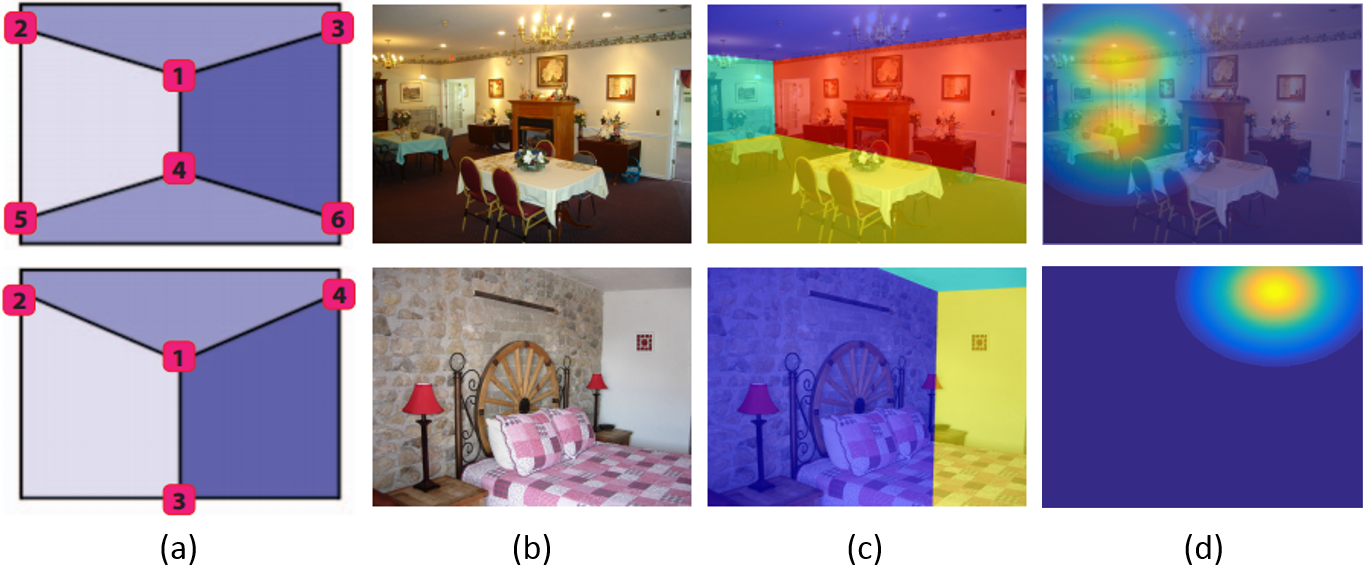
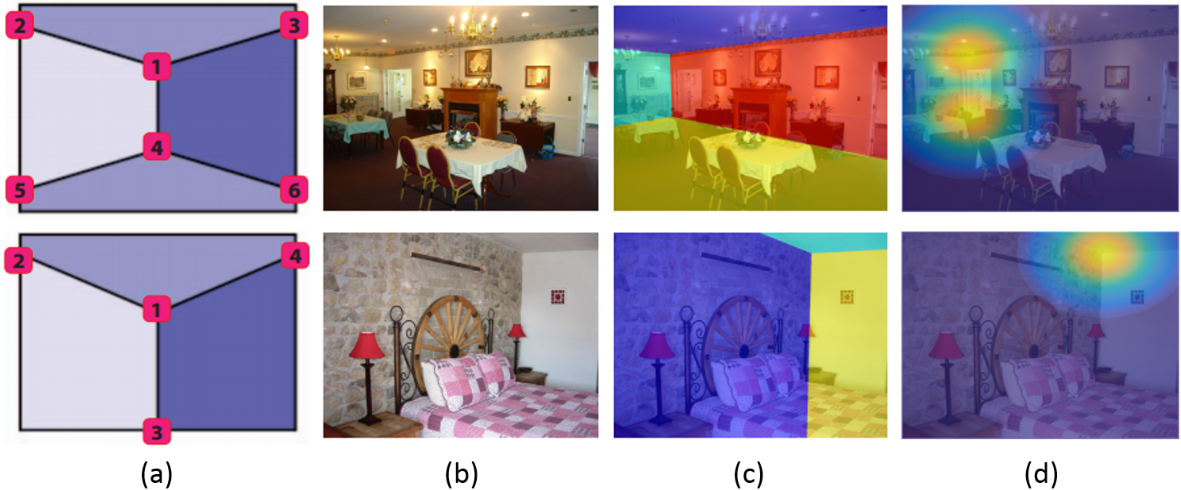
Final

diff --git a/paper_sub/approach.tex b/paper_sub/approach.tex
@@ -13,7 +13,7 @@ These representations have proved valid and reasonable.
 However, they all carry too much redundant predictions that make the combination inconvenient under the circumstances of multi-view layout estimation. Taking the keypoints representation in \cite{LeeRoomNet17} as an example, they need to predict all 6 points in Fig. \ref{fig:representation}(a) first row. But the 4 points on the image boundaries help little when combine different views, because they are not real corners. 
 Moreover, in order to determine how many corners to select in the final layout, a classification branch is required to determine the layout topology. 
 Out of this reason, we propose a more concise representation of a room layout using the corners only, as shown in Fig. \ref{fig:representation}(d). 
-This representation avoids extra efforts on classifying the room layout topology, and can be easily used to integrating multiple views.
+This representation avoids extra efforts on classifying the room layout topology, and can be easily used to integrate multiple views.
 %
 
 
@@ -24,7 +24,7 @@ This representation avoids extra efforts on classifying the room layout topology
 Given multiple overlapping images of an indoor scene from different views, our approach produces the combined room layout in corner-based representation. The pipeline is depicted in Fig. \ref{fig:overview}. 
 %
 First, we estimate the partial room layout separately in each single image using an encoder-decoder structure, as described in Sec. \ref{sec:layout}. 
-Then the estimated partial room layouts are integrated into a combined probability map, based on the geometric transformations between images. 
+Then the estimated partial room layouts are integrated into a combined heatmap, based on the geometric transformations between images. 
 We use a linear blending to average the predictions from different views, and select the points of the maximum responses as the room corners, as described in Sec. \ref{sec:merging}. 
 
  
@@ -62,7 +62,7 @@ Obviously, without the extra intersections of two semantic planes on the image b
  
 Under our corner-based layout representation, we predict the corner positions for each view separately using a neural network. 
 Considering the inherent semantic differences, we divide the room corners into two categories: the upper corners which are the intersection of two walls and ceiling, and the lower corners which are the intersection of two walls and floor. 
-In consequence, the goal of our single-view network should be estimating the probability maps of these two types of room corners for the input image.
+In consequence, the goal of our single-view network should be estimating the heatmaps of these two types of room corners for the input image.
 
 \noindent\textbf{Network Architecture.}
 We adopt the encoder-decoder architecture proposed by \cite{LeeRoomNet17} with modifications, since it is an end-to-end framework without complex post-processing. 
@@ -70,10 +70,10 @@ We adopt the encoder-decoder architecture proposed by \cite{LeeRoomNet17} with m
 Our layout estimation network for a single-view image is shown in Fig.~\ref{fig:network}. 
 %It is designed to estimate the room corners in a single-view image. 
 %Our network for room corner estimation from a single-view image is shown in Fig.~\ref{fig:network}.
-We mainly make two modifications on the decode part and classification branch. 
+We mainly make two modifications on the decoder part and classification branch. 
 First, as our corner-based representation is more concise, we remove the recurrent structure in \cite{LeeRoomNet17} for efficiency, and we add more upsampling layers and convolution layers to upsample the feature maps from the bottleneck layer to get the same resolution with the input image as a compensation for accuracy. 
 The final convolution layer is adapted to output a $w \times h \times 2$ probability array $T$ for our new representation, where $w$ and $h$ stand for the width and length of the input image. 
-Each of the two slices can be viewed as a probability map for the upper corners and lower corners respectively. 
+Each of the two slices can be viewed as a heatmap for the upper corners and lower corners respectively. 
 Secondly, \cite{LeeRoomNet17} delineates room layout using 2D keypoints. The semantic boundaries can be recovered by connecting the detected 2D keypoints in a specific order. 
 As the connection order differs between room topologies, they have to add a classification branch in their network to classify the room type, and the final performance rely on the classification accuracy. 
 Unfortunately, the accuracy is not satisfied. 
@@ -88,16 +88,16 @@ Therefore, we remove the classification branch in our network architecture.
 \end{figure}
 
 \noindent\textbf{Training.} 
-While our method could take multiple images under different view directions of arbitrary FOV, we generate our training dataset using the PanoContext dataset \cite{zhang2014panocontext} to generate multi-view images for training. 
-The PanoContext dataset contains 500 annotated panorama. We project these panorama into multiple $320 \times 320$ images at different views using the toolkit provided by \cite{zhang2014panocontext}. 
+While our method could take multiple images under different view directions of arbitrary FOV, we use the PanoContext dataset \cite{zhang2014panocontext} to generate multi-view images for training. 
+The PanoContext dataset contains 500 annotated panoramas. We project these panoramas horizontally into multiple $320 \times 320$ images with $FOV=\ang{90}$ at different views using the toolkit provided by \cite{zhang2014panocontext}. For each panorama we obtain 12 perspective images.
 %
 %\xj{The number of views in the training? how many training images? with overlapping? data augumentation?} \drf{we use different views for different settings (in the experiments), so i didn't mention it here.}
 
 The ground truth locations of the room corners are obtained using the same transformations and are further transformed into the Gausian representation. 
-While the output is a probability map, we produce the ground-truth map for each image by generating a 2D Gaussian centered at the location of each groundtruth corner with $\sigma=40$ pixels, similar with \cite{LeeRoomNet17,tompson2014joint}.
+While the output is a heatmap, we produce the ground-truth map for each image by generating a 2D Gaussian centered at the location of each groundtruth corner with $\sigma=40$ pixels, similar with \cite{LeeRoomNet17,tompson2014joint}.
 %
-Euclidean loss is used to regress the probability map of room corners. 
-Because the background area is much larger than the corner areas in the probability maps, we adjust the distribution imbalance between foreground and background pixels by degrading the gradient weight of background pixels with a coefficient of 0.2.
+Euclidean loss is used to regress the heatmap of room corners. 
+Because the background area is much larger than the corner areas in the heatmaps, we adjust the distribution imbalance between foreground and background pixels by degrading the gradient weight of background pixels with a coefficient of 0.2.
 %\xj{Training parameters?}
 Adam is adopted as the optimizer to train the model with batch size of 5, initial learning rate of 0.00001 and maximum iterations is set to 40000.
 
@@ -112,18 +112,18 @@ Adam is adopted as the optimizer to train the model with batch size of 5, initia
 
 \subsection{Layout Composition}
 \label{sec:merging}
-After we predict the probability maps of the room corners for each image, we composite them to generate a layout in a larger FOV. 
+After we predict the heatmaps of the room corners for each image, we composite them to generate a layout in a larger FOV. 
 First, we align the input images in different views by using the transformation between image plane and the composition image plane. 
 %First, the input multi-view images are projected into a combined image using the camera poses, we formulate this view transformations as a function $f$. 
-Then, we sum the two-channel probability map $T$ for each image to get a probability map $\hat{T}$ depicting all two types of room corners. 
-Next, we use the same mapping function $f$ to map the map $\hat{T}$ from multi-views into the composition image plane.
+Then, we sum the two-channel heatmap $T$ for each image to get a heatmap $\hat{T}$ depicting all two types of room corners. 
+Next, we use the same transformation to map the heatmaps $\hat{T}$ from multi-views into the composition image plane.
 %
 %\xj{Explain the different between two subfigures. }
-The combined probability map generated by simply averaging the maps of different views that contain many visual boundaries as the data distribution differs in different views. To smooth the combined probability map, a linear blending is applied to average the predictions of the overlapping area between different views. The weight for blending is depended on the distance to each overlapping images for each pixel.
+The combined heatmap generated by simply averaging the maps of different views contains many visual boundaries as the data distribution differs in different views. To smooth the combined heatmap, a linear blending is applied to average the predictions of the overlapping area between different views. The weight for blending is depended on the distance to each overlapping images for each pixel.
 
 %
-After that, we pick the points with the maximum responses as the room corners. 
-At this stage, we first reduce the noise in $\hat{T}$ caused by unsatisfactory predictions from particular perspectives by calculating the LOG response of $\hat{T}$ at a certain scale, $\sigma$ is set to 21 in our case, and use the LOG response as our new probability map.
+After that, we pick the points with the local maximum responses as the room corners. 
+At this stage, we first reduce the noise in $\hat{T}$ caused by unsatisfactory predictions from particular perspectives by calculating the LOG response of $\hat{T}$ at a certain scale, $\sigma$ is set to 21 in our case, and use the LOG response as our new heatmap.
 %
 Then, we follow the post-processing method in \cite{zou2018layoutnet} to obtain the locations of the room corners in the combined map. In brief, the combined heatmap is summed across rows to find $m$ local maxima for columns, then $n$ largest peaks are found along each of the $m$ columns. In this way, we attain the locations of $m \times n$ room corners. We further detect the vanishing points of the two perspective images on two sides of the combined image, and connect them seperately with the closet room corners in the combined layout to generate the semantic boundaries outside the $m \times n$ room corners. While for panorama, we reconstruct the whole-room layout by by directly connecting the eight keypoints.
 %

diff --git a/paper_sub/results.tex b/paper_sub/results.tex
@@ -3,24 +3,40 @@
 \section{Results}
 Our approach performs well on real data even facing occlusions and clutter in the indoor environment. A panoramic visual sample taken from the PanoContext testset is shown in Fig. \ref{fig:results2}.
 %
-The first row are the input multi-view images, the second row are the predicted probability maps from the network. We also estimate the room corners on the flipped version of the input images and average the probability maps. Then the predictions from different views are merged to obtain the overall probability map on the left of the third row, and the final result is on its right. 
+The first row are the input multi-view images, the second row are the predicted heatmaps from the network. We also estimate the room corners on the flipped version of the input images and average the heatmaps. Then the predictions from different views are merged to obtain the overall heatmap on the left of the third row, and the final result is on its right. 
 %
-In this scene, 12 images from different horizontal perspectives are used. Note that several room corners are occluded by objects, such as the corners behind the bed and the sofa, but we can still recover the overall layout of the room properly. As revealed by the probability maps, the uncertainty of the lower room corner in the second view has been compensated by the first view. Our method also shows robustness to complex texture, such as patterned carpet in this scene. 
+In this scene, 12 images from different horizontal perspectives are used. Note that several room corners are occluded by objects, such as the corners behind the bed and the sofa, but we can still recover the overall layout of the room properly. As revealed by the heatmaps, the uncertainty of the lower room corner in the second view has been compensated by the first view, depicted by red and gray circle. Our method also shows robustness to complex texture, such as patterned carpet in this scene. 
+
 %
-Fig. \ref{fig:partial2} shows a combined layout generated by 4 perspective images. Our method works well in this situation too. The SVNet correctly infer the layout in which no corner shows (the second image), and it is robust to clutters caused by many objects around the lower room corners.
+Fig. \ref{fig:partial2} shows two combined layouts generated from different numbers of views. The misleading prediction in the third view make the two-view layout produce two extra room corners on the left side. The unsatisfactory prediction in the fourth view also lead to a inferior performance on the right side. However, by taking more views into consideration, we can obtain a better predicition as depicted in the five-view result. The two extra corners are abandoned by integrating the first and the second view, and the inferior prediction on the right is also refined by merging the fifth view.
+%Our method works well in this situation too. The SVNet correctly infer the layout in which no corner shows (the second image), and it is robust to clutters caused by many objects around the lower room corners.
 
 
-\begin{figure}[ht]
+\begin{figure}
 	\centering
 	\includegraphics[width=\linewidth]{figs/results2.png}
-	\caption{Our qualitative results on real data. We sum over the third dimension of the probability array $T$ for visulization. In the final result, the ground truth is shown in green and our prediction is shown in red. }
+	\caption{Our qualitative results on real data. We use the heatmap $\hat{T}$ for visulization. In the final result, the ground truth is shown in green and our prediction is shown in red. }
 	\label{fig:results2}
 \end{figure}
+
+\begin{table}
+	\caption{Quantitative results on PanoContext dataset.}
+	\label{tab:PC}
+	\begin{tabular}{cccc}
+		\toprule
+		Method&3D IoU (\%)& $\epsilon_{corner}$ (\%) & $\epsilon_{pixel}$ (\%)\\
+		\midrule
+		PanoContext \cite{zhang2014panocontext} & 67.23 & 1.60 & 4.55\\
+		LayoutNet \cite{zou2018layoutnet} & 74.48 & 1.06 & 3.34\\	
+		Our method & 61.98 & 2.75 & 6.73\\	
+		\bottomrule
+	\end{tabular}
+\end{table}
 
 \begin{figure}
 	\centering
 	\includegraphics[width=\linewidth]{figs/partial2.png}
-	\caption{A combined layout generated from four images. The predicted room corners are depicted by red points in the final result.}
+	\caption{The combined layout generated from two or five images. The two-view result is obtained by using the third and fourth images in the first row, the five-view result is obtained by using all the images. We depict the inferior predictions using red circles.}
 	\label{fig:partial2}
 \end{figure}
 
@@ -30,12 +46,15 @@ We also conduct experiments on the PanoContext dataset for quantitative comparis
 %
 Three standard metrics are adopted for evaluation: 3D Intersection over Union, Corner error and Pixel error. As shown in Table \ref{tab:PC}, our approach is comparable with panorama-based methods. 
 %
+The deficiency maybe caused by the smaller FOV of the perspective image. In fact, the panorama can be viewed as a special case that the FOV reaches its maximum.
+
+\comments{
 We believe that the reason for the deficiency is that the FOV of each perspective image is much smaller than that of the panorama. Limited FOV may lead to the wrong focus, which then pollutes the overall prediction. 
 %
 To explore the effect of using different size of FOV, we use two settings during training and testing. For Multi-view-\ang{60}, we project the panorama into 24 perspective images with $FOV=\ang{60}$, while 8 directions around the vertical axis and 3 directions around the horizontal axis. For Multi-view-\ang{90}, we project the panorama into 12 perspective images with $FOV=\ang{90}$, all of them are horizontal and centered around the vertical axis. 
 %
 The quantitative results in Table \ref{tab:PC} demonstrate that larger FOV contribute to higher accuracy in overall prediction, which is consistent with our intuition. In fact, the panorama can be viewed as a special case that the FOV reaches its maximum.
-
+}
 
 %Experiments, three parts: one for different field of view (FOV), one for comparison with panorama based method, the last one for qualitative results.
 
@@ -54,23 +73,10 @@ The quantitative results in Table \ref{tab:PC} demonstrate that larger FOV contr
 %\end{table}
 
 
-\begin{table}
-	\caption{Quantitative results on PanoContext dataset.}
-	\label{tab:PC}
-	\begin{tabular}{cccc}
-		\toprule
-		Method&3D IoU (\%)& $\epsilon_{corner}$ (\%) & $\epsilon_{pixel}$ (\%)\\
-		\midrule
-		PanoContext \cite{zhang2014panocontext} & 67.23 & 1.60 & 4.55\\
-		LayoutNet \cite{zou2018layoutnet} & 74.48 & 1.06 & 3.34\\
-		Multi-view-\ang{60} & 53.39 & 3.35 & 10.15\\	
-		Multi-view-\ang{90} & 61.98 & 2.75 & 6.73\\	
-		\bottomrule
-	\end{tabular}
-\end{table}
+
 
 \section{Conclusions}
-In this paper, we propose a method to estimate the combined room layout based on multiple views. We design a concise representation for the room layout in the perspective image to simplify the learning process. Then we integrate the predicted room layout from different views into a combined prediction using view transformations and a fusion strategy. The multi-view images can supplement each other and generate more accurate predictions. We also achieve comparable performance with the panorama based methods on a panorama dataset. It is an encouraging attempt to estimate the room layout with larger FOV using multi-view images.
+In this paper, we propose a method to estimate the combined room layout based on multiple views. We design a concise representation for the room layout in the perspective image to simplify the learning process. Then we integrate the predicted room layout from different views into a combined prediction using view transformations and a fusion strategy. The multi-view images can supplement each other and generate more accurate predictions. We also achieve comparable performance with the panorama-based methods on a panorama dataset. It is an encouraging attempt to estimate the room layout with larger FOV using multi-view images.
 
 \comments{
 \begin{acks}

diff --git a/paper_sub/intro.tex b/paper_sub/intro.tex
@@ -3,7 +3,7 @@
 \begin{figure*}
 	\centering
 	\includegraphics[width=\linewidth]{figs/ppline.png}
-	\caption{Our pipeline consists of two main steps. First, a single-view network is employed to estimate the probability map of room corners for each image separately. Secondly, the probability maps of the input multi-view images are composed together to generate a combined probability map of the room corners according to the image transformations. The final result is obtained by selecting the corners of local maximum.
+	\caption{Our pipeline consists of two main steps. First, a single-view network is employed to estimate the heatmap of room corners for each image separately. Secondly, the heatmaps of the input multi-view images are composed together to generate a combined heatmap of the room corners according to the image transformations. The final result is obtained by selecting the corners of local maximum.
 		 }
 	\label{fig:overview}
 \end{figure*}
@@ -13,19 +13,19 @@ Room layout estimation is a fundamental task within scene understanding. It aims
 Since man-made indoor environments naturally follow some geometrical rules, for example objects always rest on the floor and many of them tend to be aligned with walls, the estimated room layout can provide valuable geometric priors, which can be applied in depth estimation, object detection~\cite{hedau2010thinking}, scene reconstruction \cite{lee2017joint} and so on.
 
 %\xj{Traditional methods...}
-Traditional approaches to this task follow a common proposing-ranking scheme \cite{hedau2009recovering,wang2013discriminative,gupta2010estimating,hedau2010thinking}. In the proposing stage, numerous layout hypotheses are obtained through vanishing point detection and ray sampling. Then, different hand-crafted features are used to find the best layout. 
+Traditional approaches to this task usually follow a common proposing-ranking scheme \cite{hedau2009recovering,wang2013discriminative,gupta2010estimating,hedau2010thinking}. In the proposing stage, numerous layout hypotheses are obtained through vanishing point detection and ray sampling. Then, different hand-crafted features are used to find the best layout. 
 \comments{
 \xj{However, these techniques usually suffer from tedious and fragile post-processing tricks.}
 \drf{It's the characteristic of DNN based method excluding \cite{zhao2017physics}}
 }
-With the rapid development of deep neural networks, recent methods built on fully convolutional network (FCN) have achieved remarkable performances in single-view images~\cite{mallya2015learning,dasgupta2016delay,ren2016coarse,zhao2017physics,LeeRoomNet17}. These networks efficiently learn object appearances and spatial distributions from a large database, and they implicitly encode these priors in the learned models to efficiently infer the layout of a new image. 
+With the rapid development of deep neural networks, recent methods built on fully convolutional network (FCN) have achieved remarkable performances in single-view images~\cite{mallya2015learning,dasgupta2016delay,ren2016coarse,zhao2017physics,LeeRoomNet17}. These networks efficiently learn object appearances and spatial distributions from a large database, and they implicitly encode these priors in the trained models to efficiently infer the layout of a new image. 
 %\xj{limitations of single-view layout estimation techniques?}
 %\xj{ambiguity of vertical walls, occluded corners.. multiple topology.}
 %
 However, these techniques usually suffer from tedious and fragile post-processing tricks. At the same time, single-view layout estimation has several inherent limitations, such as the ambiguity among walls claimed by \cite{dasgupta2016delay}, and the occlusion of critical semantic corners in a specific view. These limitations lead to non-perfect results that are still far from the requirements of practical applications.
 
 %
-While most of the previous work focused on estimating the room layout from one single-view image, we take more views into consideration. Unlike the single-view-based methods, the images taken from multi-views complement each other, which can ease the ambiguity caused by cluttered objects and occlusions of the room corners. At the same time, the combined room layout integrated from different views naturally possess larger field of view (FOV) than that of the single-view layout. 
+While most of the previous work focused on estimating the room layout from one single-view image, we take more views into consideration. Unlike the single-view-based methods, the images taken from multi-views complement each other, which can ease the ambiguity caused by cluttered objects and occlusions of the room corners. At the same time, the combined room layout integrated from different views possess larger field of view (FOV) than that of the single-view layout. 
 %
 Few research has been carried out on multi-view-based layout estimation. \cite{bao2014understanding} follows the traditional proposing-ranking scheme in single-view layout estimation and merge the information from different views by integrating the structure from motion (SFM) into the framework. Their ranking part is implemented with complex hand-crafted features. 
 %
